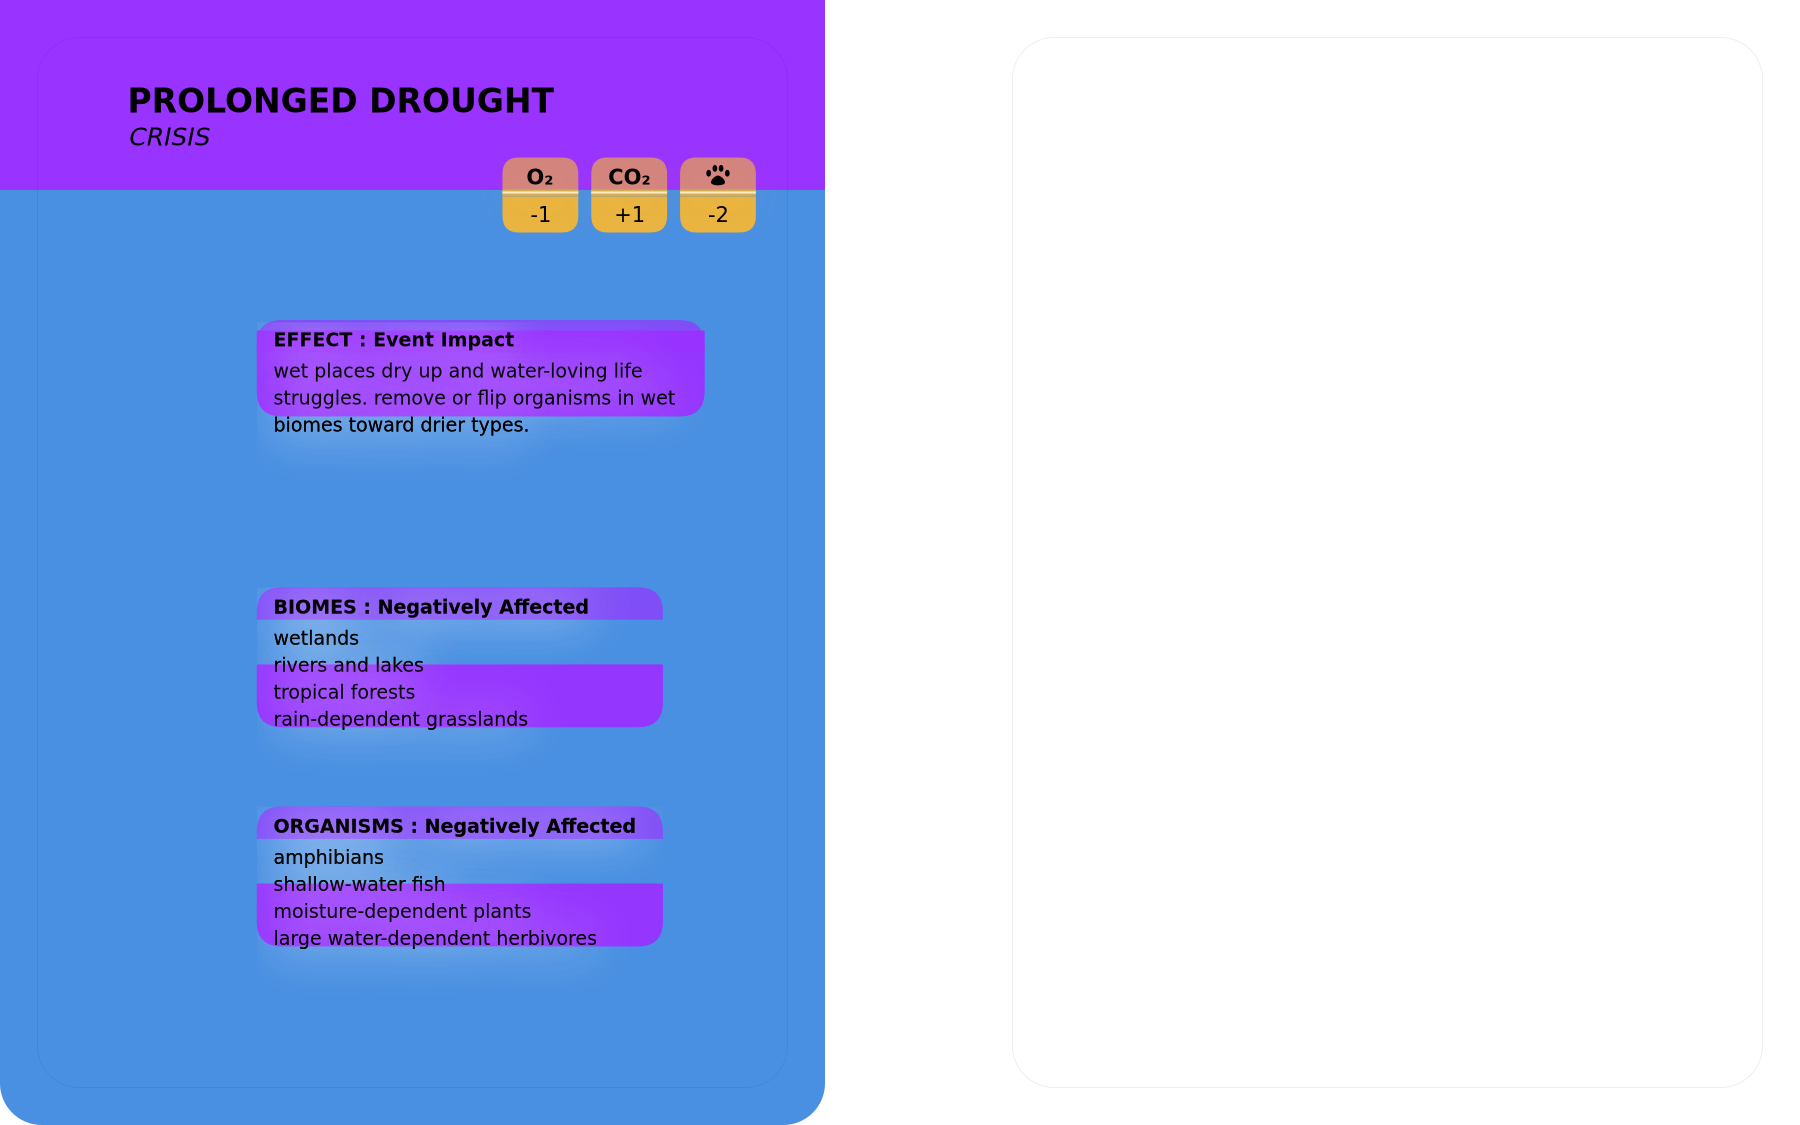
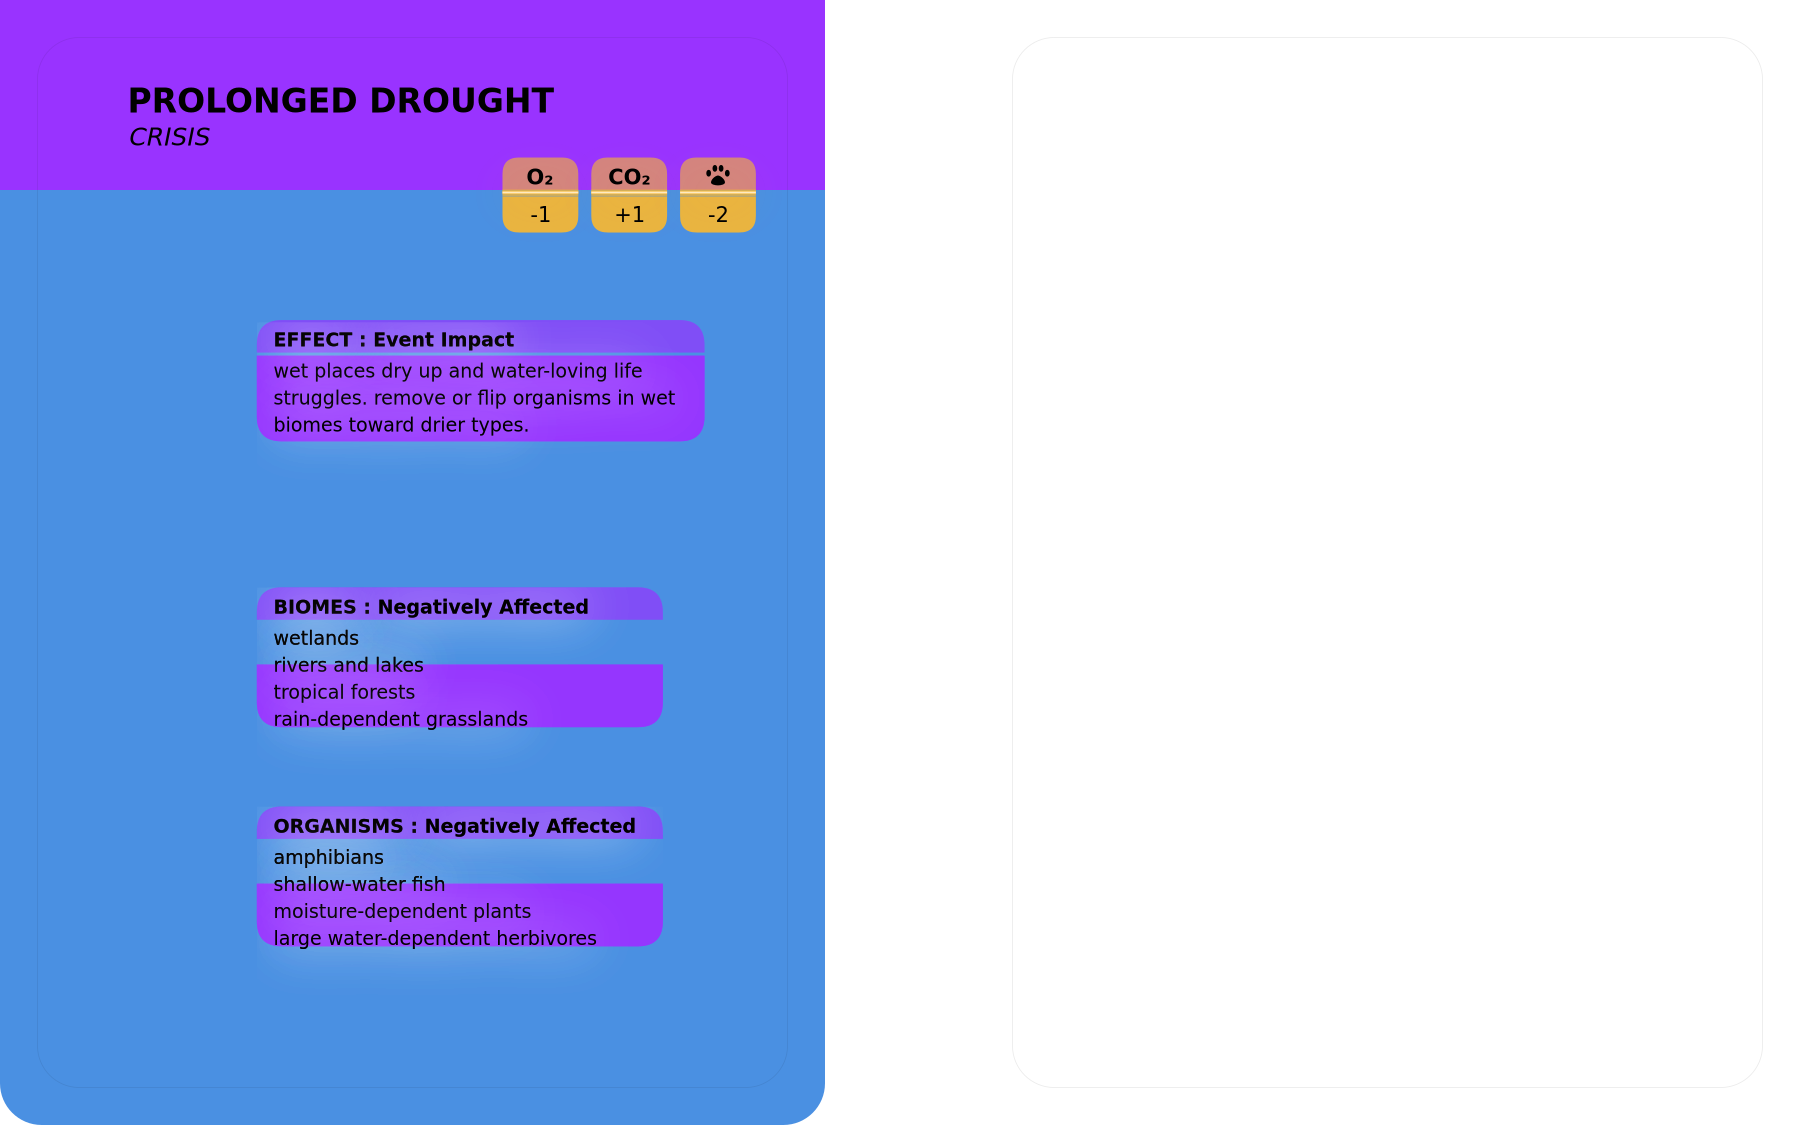
feat: Add event name adjustment for Effect field layout in drawFieldRow function

Changed region(s): [[0.1244, 0.28, 0.4044, 0.4044]]

diff --git a/game/lib/event-cards/draw-field-row.js b/game/lib/event-cards/draw-field-row.js
@@ -5,7 +5,7 @@
 
 const wrapText = require('./wrap-text');
 
-module.exports = function drawFieldRow(ctx, { textX, rowY, scale, color, titleColor, label, main, sub, maxWidth, hexToRgba, drawTop, drawBottom }) {
+module.exports = function drawFieldRow(ctx, { textX, rowY, scale, color, titleColor, label, main, sub, maxWidth, hexToRgba, drawTop, drawBottom, eventName }) {
   ctx.save();
   ctx.textAlign = 'left';
   ctx.textBaseline = 'top';
@@ -96,8 +96,15 @@ module.exports = function drawFieldRow(ctx, { textX, rowY, scale, color, titleCo
     // For Effect field, move bottom background up 30px, down 1px, then up 7px
     // For Biomes and Organisms fields, move bottom background up 30px, down 1px, then down 15px
     let bottomY;
+    
+    // List of events that need 10px additional downward adjustment for Effect field
+    const needsAdjustment = eventName && ['Prolonged Drought', 'Megaflood', 'Disease Outbreak', 'Invasive Species Arrival', 'Predator Boom', 'Volcanic Eruption (Regional)', 'Oxygen Crash (Local)', 'Late Devonian Mass Extinction', 'Refugia Discovered', 'Oxygen Surge'].includes(eventName);
+    
     if (label === 'Effect') {
       bottomY = rowY - boxPadY + topBoxH - (30 * scale) + (1 * scale) - (7 * scale);
+      if (needsAdjustment) {
+        bottomY += (6 * scale);
+      }
     } else if (label === 'Biomes' || label === 'Organisms') {
       bottomY = rowY - boxPadY + topBoxH - (30 * scale) + (1 * scale) + (15 * scale);
     } else {

diff --git a/game/lib/event-cards/functional-category-event.js b/game/lib/event-cards/functional-category-event.js
@@ -39,6 +39,7 @@ module.exports = function drawEventFields(ctx, contentX, contentY, contentW, con
       hexToRgba,
       drawTop,
       drawBottom,
+      eventName: card.common_name,
       ...field,
     });
 
